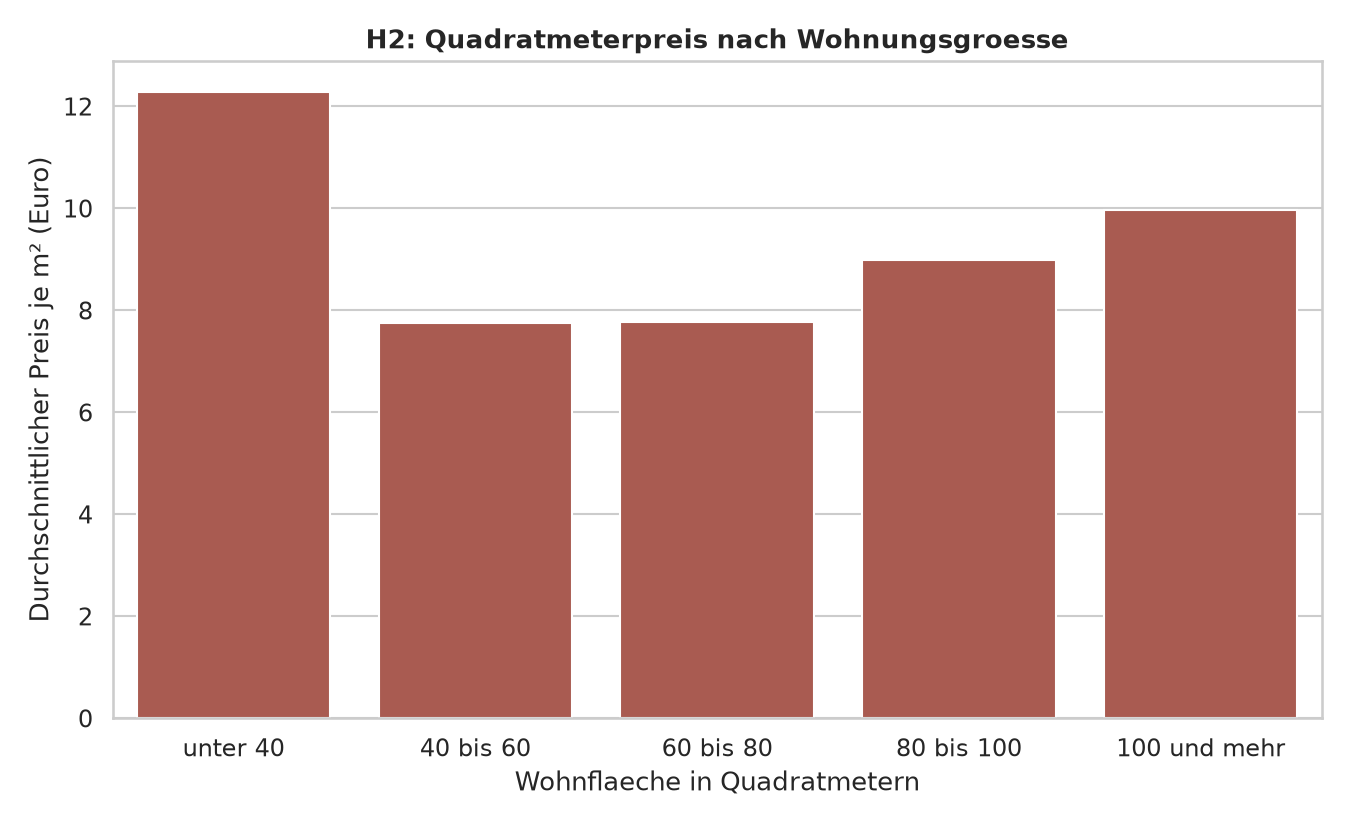
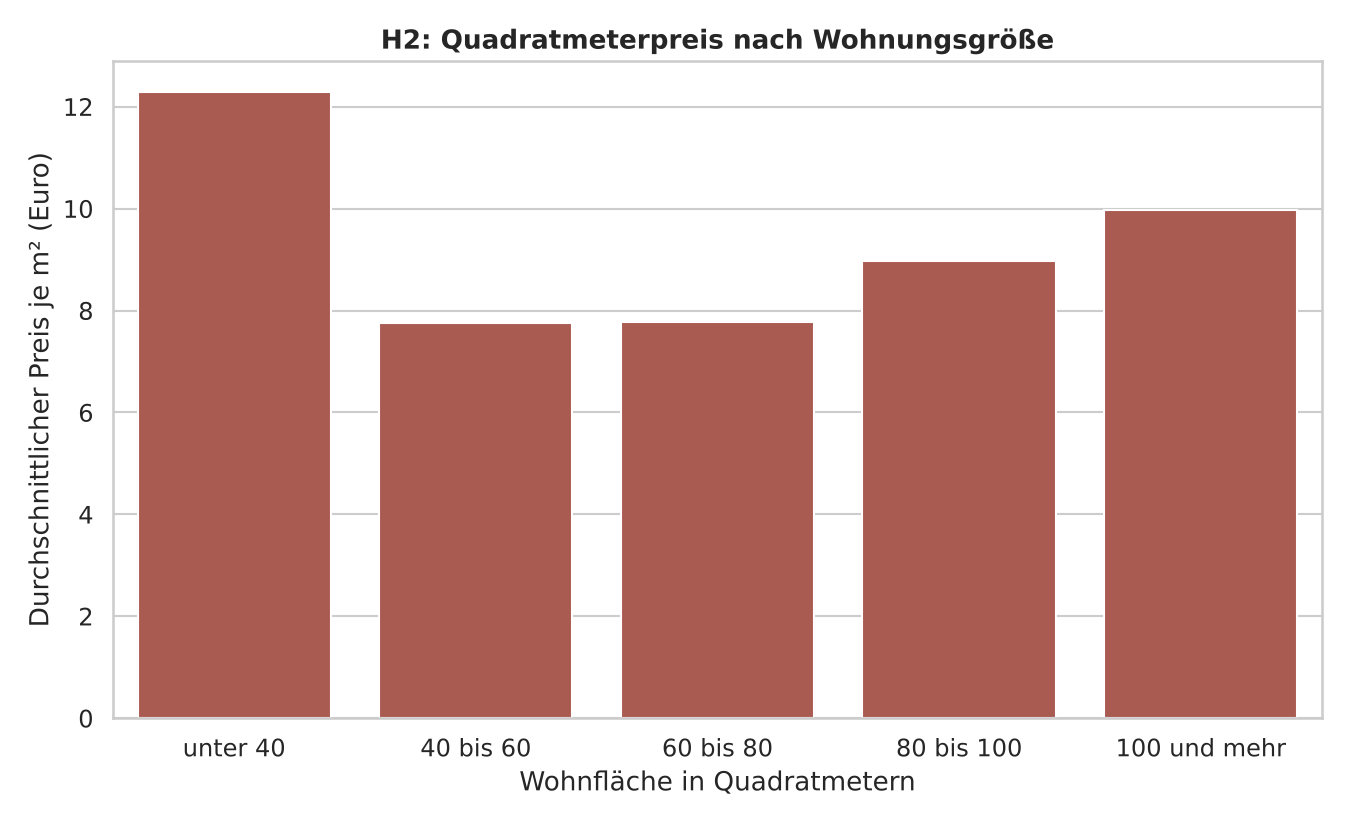
Überarbeitung: Kreiszuordnung von 21 Städten korrigiert, fehlende Verknüpfung ergänzt, Joins in H1/H3 repariert

diff --git a/python/06_ort_kreis_mapping.py b/python/06_ort_kreis_mapping.py
@@ -31,10 +31,12 @@ wb = openpyxl.load_workbook("rohdaten/dichte_kreise.xlsx", read_only=True, data_
 ws = wb["Kreisfreie Städte u. Landkreise"]
 
 kreise = {}   # kreis_schluessel -> kreis_name
+kreistyp = {} # kreis_schluessel -> "Kreisfreie Stadt", "Stadtkreis", "Landkreis" ...
 for r in ws.iter_rows(values_only=True):
     schluessel = str(r[0]).strip() if r[0] else ""
     if len(schluessel) == 5 and schluessel.isdigit():
         kreise[schluessel] = str(r[2]).strip()
+        kreistyp[schluessel] = str(r[1]).strip()
 
 
 # ------------------------------------------------------------
@@ -50,10 +52,11 @@ def normalisiere(name):
     n = n.replace("ä", "ae").replace("ö", "oe").replace("ü", "ue").replace("ß", "ss")
     n = n.replace("_", " ").replace("-", " ")
     n = re.sub(r"\([^)]*\)", "", n)          # Klammerzusätze entfernen
-    for zusatz in [", stadt", ", landeshauptstadt", ", hansestadt",
+    # ", stadtkreis" muss VOR ", stadt" stehen, sonst bleibt "kreis" übrig
+    for zusatz in [", stadtkreis", ", stadt", ", landeshauptstadt", ", hansestadt",
                    ", kreisfreie stadt", ", wissenschaftsstadt",
                    ", documenta-stadt", ", documenta stadt",
-                   ", universitaetsstadt", ", stadtkreis",
+                   ", universitaetsstadt",
                    ", grosse kreisstadt", " landkreis", " kreisfreie stadt"]:
         n = n.replace(zusatz, "")
     n = re.sub(r"\bkreis\b", "", n)
@@ -68,9 +71,25 @@ def normalisiere(name):
     return n
 
 # Kreisnamen in Grundform -> Schlüssel (für den automatischen Abgleich)
-kreis_grundform = {}
+#
+# Korrektur 10/2026: Vorher stand hier ein einziges Wörterbuch. Weil
+# normalisiere() "Stadt", "Landeshauptstadt" usw. entfernt, wurden z.B.
+# "München, Landeshauptstadt" (09162) und der Landkreis "München" (09184)
+# beide zu "muenchen", und der Landkreis hat die Stadt überschrieben.
+# Betroffen waren München, Leipzig, Kassel, Kaiserslautern, Osnabrück,
+# Karlsruhe und Heilbronn, zusammen rund 20.900 Inserate.
+# Bei Karlsruhe und Heilbronn kam noch ein zweiter Fehler dazu, siehe
+# Reihenfolge der Zusätze in normalisiere().
+# Deshalb jetzt zwei getrennte Wörterbücher: kreisfreie Städte und Landkreise.
+def ist_stadt(schluessel):
+    # die Destatis-Tabelle hat eine eigene Spalte mit dem Kreistyp
+    return kreistyp.get(schluessel) in ("Kreisfreie Stadt", "Stadtkreis")
+
+stadt_grundform = {}
+landkreis_grundform = {}
 for schluessel, name in kreise.items():
-    kreis_grundform[normalisiere(name)] = schluessel
+    ziel = stadt_grundform if ist_stadt(schluessel) else landkreis_grundform
+    ziel[normalisiere(name)] = schluessel
 
 
 # ------------------------------------------------------------
@@ -147,10 +166,18 @@ ergebnis = []
 nicht_zugeordnet = []
 for ort in sorted(orte):
     # Erst die manuelle Liste, dann der automatische Abgleich.
+    grundform = normalisiere(ort)
+    # "_Kreis" im Ortsnamen = Landkreis, sonst zuerst bei den Städten suchen
+    if ort.endswith("_Kreis"):
+        reihenfolge = (landkreis_grundform, stadt_grundform)
+    else:
+        reihenfolge = (stadt_grundform, landkreis_grundform)
+    automatisch = next((d[grundform] for d in reihenfolge if grundform in d), None)
+
     if ort in manuell:
         ks = manuell[ort]
-    elif normalisiere(ort) in kreis_grundform:
-        ks = kreis_grundform[normalisiere(ort)]
+    elif automatisch:
+        ks = automatisch
     else:
         nicht_zugeordnet.append(ort)
         continue

diff --git a/wohnungsmarkt-docker/python_app/scripts/08_visualisierung_seaborn.py b/wohnungsmarkt-docker/python_app/scripts/08_visualisierung_seaborn.py
@@ -149,6 +149,8 @@ def h1_topstaedte():
     # read_sql schickt die Abfrage an die Datenbank und legt das
     # Ergebnis als Tabelle (DataFrame) im Arbeitsspeicher ab.
     df = pd.read_sql(abfrage, verbindung)
+    # "Frankfurt_am_Main" -> "Frankfurt am Main", liest sich im Diagramm besser
+    df["ort"] = df["ort"].str.replace("_", " ")
 
     # Eine neue, leere Zeichenfläche in einer bestimmten Größe
     # (Breite, Höhe in Zoll) anlegen.
@@ -161,8 +163,8 @@ def h1_topstaedte():
 
     # Titel und Achsenbeschriftungen. Die y-Achse braucht keinen
     # Titel, weil dort schon die Ortsnamen stehen.
-    plt.title("H1: Die teuersten Orte ueber dem Bundesschnitt", fontweight="bold")
-    plt.xlabel("Prozent ueber dem bundesweiten Schnitt")
+    plt.title("H1: Die teuersten Orte über dem Bundesschnitt", fontweight="bold")
+    plt.xlabel("Prozent über dem bundesweiten Schnitt")
     plt.ylabel("")
 
     speichern("h1_topstaedte.png")
@@ -203,8 +205,8 @@ def h2_wohnungsgroesse():
     plt.figure(figsize=(9, 5.5))
     # Hier sind die Balken senkrecht, weil x der Text ist und y die Zahl.
     sns.barplot(data=df, x="groesse_klasse", y="miete_pro_qm", color=TERRA)
-    plt.title("H2: Quadratmeterpreis nach Wohnungsgroesse", fontweight="bold")
-    plt.xlabel("Wohnflaeche in Quadratmetern")
+    plt.title("H2: Quadratmeterpreis nach Wohnungsgröße", fontweight="bold")
+    plt.xlabel("Wohnfläche in Quadratmetern")
     plt.ylabel("Durchschnittlicher Preis je m² (Euro)")
     speichern("h2_wohnungsgroesse.png")
 
@@ -263,7 +265,7 @@ def h4_bezahlbarkeit():
                 scatter_kws={"alpha": 0.5, "color": SCHIEFER},
                 line_kws={"color": TERRA})
     plt.title("H4: Einkommen gegen Miete je Kreis", fontweight="bold")
-    plt.xlabel("Verfuegbares Einkommen je Einwohner (Euro)")
+    plt.xlabel("Verfügbares Einkommen je Einwohner (Euro)")
     plt.ylabel("Durchschnittlicher Preis je m² (Euro)")
     speichern("h4_bezahlbarkeit.png")
 
@@ -319,7 +321,7 @@ def h6_dichte():
     sns.regplot(data=df, x="dichte", y="miete_pro_qm",
                 scatter_kws={"alpha": 0.5, "color": SCHIEFER},
                 line_kws={"color": TERRA})
-    plt.title("H6: Bevoelkerungsdichte gegen Miete je Kreis", fontweight="bold")
+    plt.title("H6: Bevölkerungsdichte gegen Miete je Kreis", fontweight="bold")
     plt.xlabel("Einwohner je Quadratkilometer")
     plt.ylabel("Durchschnittlicher Preis je m² (Euro)")
     speichern("h6_dichte.png")
@@ -398,6 +400,6 @@ if __name__ == "__main__":
             funktion()
         except Exception as fehler:
             print(f"  Problem bei {name}: {fehler}")
-            print(f"  Tipp: pruefe die Spaltennamen der beteiligten Tabelle.")
+            print(f"  Tipp: prüfe die Spaltennamen der beteiligten Tabelle.")
 
     print("\nFertig. Alle Bilder liegen im Ordner 'visualisierungen'.")

diff --git a/README.md b/README.md
@@ -13,7 +13,7 @@ Ich war im Team für das **Data Engineering** zuständig:
 - Beschaffung und Bewertung der Datenquellen
 - Aufbereitung aller Rohdaten mit Python, die Mietdaten mit PySpark (`python/01` bis `07`)
 - Datenbank in PostgreSQL 17 als Sternschema, Verknüpfung über den Kreisschlüssel,
-  Fremdschlüssel und ER-Diagramm (`sql/01`, `sql/09`, `sql/10`)
+  Fremdschlüssel und ER-Diagramm (`sql/01`, `sql/01b`, `sql/09`, `sql/10`)
 - Analyse-Abfragen als Ausgangspunkt für alle sieben Hypothesen (`sql/02` bis `08`)
 - Docker-Setup mit Datenbank, pgAdmin und Python-Umgebung (`wohnungsmarkt-docker/`)
 - Visualisierung aller Hypothesen mit seaborn direkt aus der Datenbank
@@ -53,11 +53,13 @@ Bundesland, weil das für H6 rund 400 statt 16 Datenpunkte ergibt.
 |---|---|---|
 | H1 | Die teuersten Städte liegen deutlich über dem Bundesschnitt | bestätigt: München rund 165 % darüber, das Umland zieht mit |
 | H2 | Kleine Wohnungen sind pro m² teurer | teilweise: U-Form, unter 40 m² über 12 €, 40 bis 80 m² knapp unter 8 €, große Wohnungen rund 10 € |
-| H3 | Das Ost-West-Gefälle besteht fort | bestätigt: Osten gut 6 €, Westen knapp 10 €, Berlin mit über 14 € separat ausgewertet |
-| H4 | Wohnen ist in vielen Städten kaum bezahlbar | Zusammenhang sichtbar: Kreise mit höherem Einkommen haben höhere Mieten (siehe Grenzen) |
+| H3 | Das Ost-West-Gefälle besteht fort | bestätigt: Osten 6,32 €, Westen 9,89 €, Berlin mit 14,29 € separat ausgewertet. Leipzig (7,93 €) und Dresden (8,94 €) liegen über dem Ost-, aber unter dem West-Schnitt |
+| H4 | Wohnen ist in vielen Städten kaum bezahlbar | Zusammenhang sichtbar: Kreise mit höherem Einkommen haben höhere Mieten, r = 0,62 über 400 Kreise (siehe Grenzen) |
 | H5 | Der Wohnungsbestand wächst langsamer als die Bevölkerung | widerlegt: 504 auf 524 Wohnungen je 1.000 Einwohner (2015 bis 2024) |
-| H6 | Die Bevölkerungsdichte erklärt die Preisunterschiede | teilweise: dichtere Kreise sind tendenziell teurer, die Streuung ist aber groß |
+| H6 | Die Bevölkerungsdichte erklärt die Preisunterschiede | teilweise: dichtere Kreise sind tendenziell teurer (r = 0,48), die Streuung ist aber groß |
 | H7 | Baupreise steigen schneller als die Verbraucherpreise | bestätigt: seit 2021 Baupreise +34 %, Verbraucherpreise +18 % |
+
+r ist die Korrelation zwischen den Kreisdurchschnitten, nicht zwischen einzelnen Wohnungen.
 
 Zusammengenommen spricht vieles dafür, dass Deutschland beim Wohnraum weniger ein
 Mengenproblem als ein Verteilungsproblem hat: Bundesweit ist der Bestand pro Kopf
@@ -76,11 +78,45 @@ Alle sieben Diagramme liegen im Ordner `images/`.
   Sie liegen über dem tatsächlichen Mietniveau.
 - Die Mietdaten stammen aus vier Stichtagen 2018 bis 2020 und enden vor Corona,
   Energiekrise und Inflationsschub. Großstädte und gewerbliche Vermieter sind überrepräsentiert.
+- Sachsen stellt 58.028 Inserate (21,6 %), mehr als Bayern und Baden-Württemberg zusammen.
+  Der Ost-Durchschnitt in H3 ist damit vor allem ein sächsischer Durchschnitt.
 - **H4:** Die Hypothese nennt eine Mietbelastung von über 30 % des Einkommens. Die Abfrage
   stellt Miete und Einkommen je Kreis gegenüber, die Belastungsquote selbst wird nicht
   berechnet. Das Einkommen gilt je Einwohner, die Miete je Wohnung, beides lässt sich
   nicht direkt verrechnen.
 - Die Bevölkerungsdichte stammt vom aktuellen Gebietsstand, nicht exakt aus 2019.
+
+## Überarbeitung (10/2026)
+
+Beim erneuten Prüfen habe ich einen Fehler in der Ort-Kreis-Zuordnung gefunden.
+21 kreisfreie Städte waren dem gleichnamigen Landkreis zugeordnet, darunter München,
+Leipzig, Augsburg, Regensburg, Würzburg, Kassel, Karlsruhe und Heilbronn. Das betraf
+24.897 Inserate (9,3 %). Zwei Ursachen in `python/06_ort_kreis_mapping.py`:
+
+- Die Normalisierung entfernt „Stadt“, „Landeshauptstadt“ usw. Dadurch wurden
+  „München, Landeshauptstadt“ und der Landkreis „München“ zum selben Suchbegriff, und
+  im Wörterbuch hat der Landkreis die Stadt überschrieben. In Bayern heißen Stadt und
+  Landkreis in der Destatis-Tabelle sogar exakt gleich.
+- `", stadt"` wurde vor `", stadtkreis"` entfernt. Aus „Karlsruhe, Stadtkreis“ wurde
+  so „karlsruhekreis“, Stadtkreise wurden nie automatisch gefunden.
+
+Jetzt unterscheidet das Skript Städte und Landkreise über die Typ-Spalte der
+Destatis-Tabelle. Geprüft habe ich das, indem ich die alte Zuordnung aus den Rohdaten
+zeilengenau nachgebaut und mit der neuen verglichen habe: Es ändern sich genau diese
+21 Zeilen. Folgen für die Ergebnisse:
+
+| | vorher | nachher |
+|---|---|---|
+| Kreise in H4 und H6 | 379 | 400 |
+| H6: Korrelation Dichte zu Miete | 0,37 | 0,48 |
+| H4: Korrelation Einkommen zu Miete | 0,62 | 0,62 |
+| Landkreis München, Miete je m² | 22,55 € | 17,86 € |
+
+Außerdem ergänzt: `sql/01b_kreisschluessel_verknuepfen.sql` (dieser Schritt fehlte als
+Datei, ohne ihn liefen die Analysen nicht), `sql/11_korrektur_kreiszuordnung.sql` zum
+Reparieren einer schon bestehenden Datenbank, und in H1 und H3 der Join über den Ort statt
+über den Kreisschlüssel, der Inserate doppelt gezählt hatte. Die Diagramme sind mit dem
+Skript `08_visualisierung_seaborn.py` aus den korrigierten Daten neu erzeugt.
 
 ## Was ich dabei gelernt habe
 
@@ -108,8 +144,11 @@ rohdaten/, clean/       leer, hier landen die Daten beim Nachbauen
 2. Die Skripte `python/01` bis `07` nacheinander ausführen, sie schreiben nach `clean/`
    (`02` braucht PySpark)
 3. In PostgreSQL 17 `sql/01_tabellen_anlegen.sql` ausführen und die CSVs aus `clean/`
-   importieren (Trennzeichen Semikolon, UTF-8), danach `sql/10_fremdschlüssel_erd.sql`
+   importieren (Trennzeichen Semikolon, UTF-8), danach `sql/01b_kreisschluessel_verknuepfen.sql`
+   und `sql/10_fremdschlüssel_erd.sql`
 4. Analysen mit `sql/02` bis `08`
+
+`sql/11` wird nur gebraucht, um eine vor 10/2026 gebaute Datenbank zu reparieren.
 
 Alternativ startet `wohnungsmarkt-docker/` Datenbank, pgAdmin und die Python-Umgebung
 in Containern. Dafür wird ein eigenes Datenbank-Backup gebraucht, siehe Anleitung dort.
